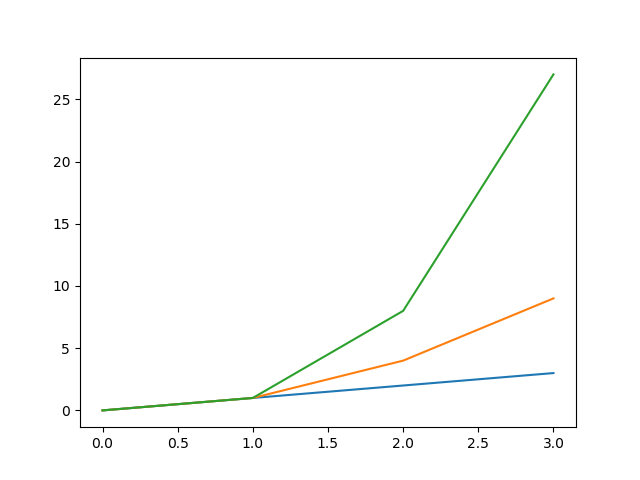
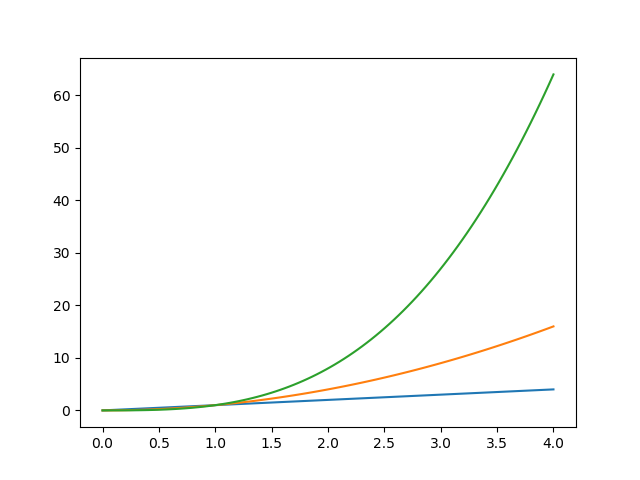
Displays plot on running

diff --git a/plots.py b/plots.py
@@ -7,7 +7,7 @@
 
 import numpy as np
 import  matplotlib.pyplot as plt
-x = np.arange(0, 4)
+x = np.linspace(0, 4, 100)
 
 f = x
 plt.plot(x, f)
@@ -21,5 +21,8 @@ plt.plot(x, h)
 plt.savefig('plot.png')
 
 plt.show('plot.png')
+
+# REFERENCES
+# https://jakevdp.github.io/PythonDataScienceHandbook/04.00-introduction-to-matplotlib.html
 
 
